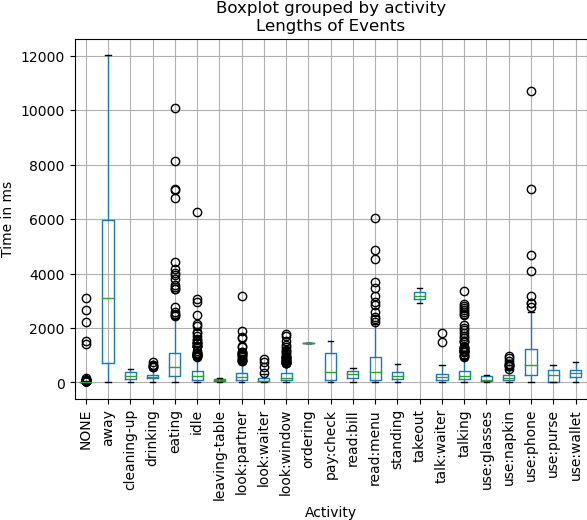
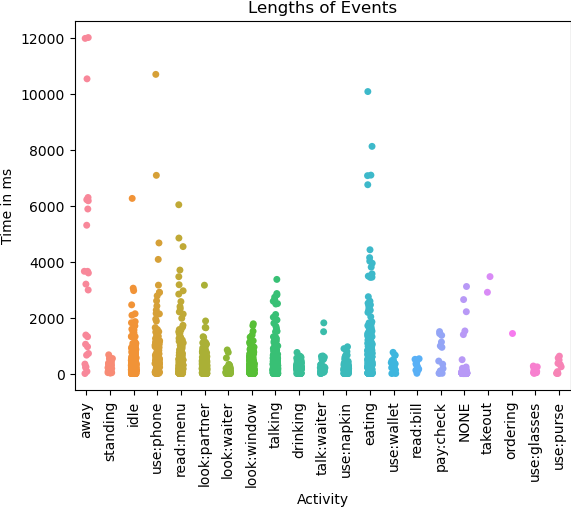
Added stripplot to show all datapoints, in addition to other

Changed region(s): [[0.0, 0.0, 1.0, 0.9763], [0.5061, 0.9763, 0.6252, 1.0]]

diff --git a/src/elan-analysis/ada_spring_2022.py b/src/elan-analysis/ada_spring_2022.py
@@ -63,7 +63,7 @@ activity_shorterdict = {'away-from-table': 'away', 'idle': 'idle', 'eating': 'ea
             'standing':'standing','talking:waiter': 'talk:waiter', 'looking:window': 'look:window', 'looking:waiter': 'look:waiter', 
             'reading:bill':'read:bill', 'reading:menu': 'read:menu',
             'paying:check': 'pay:check', 'using:phone': 'use:phone', 'using:napkin': 'use:napkin', 'using:purse': 'use:purse', 'using:glasses': 'use:glasses',
-            'using:wallet': 'use:wallet', 'looking:PersonA': 'look:partner', 'looking:PersonB':'look:partner', 'takeoutfood':'takeout', 'NONE': 'NONE'}
+            'using:wallet': 'use:wallet', 'looking:PersonA': 'look:partner', 'looking:PersonB':'look:partner', 'takeoutfood':'takeout', 'NONE': 'NONE', 'cleaning-up':'NONE', 'leaving-table':'NONE'}
 
 activitydict_display = ['away', 'idle', 'eating', 'drinking', 'talking', 'ordering', 'standing', 'talk:waiter', 'look:window',
             'look:waiter', 'read:bill', 'read:menu', 'pay:check', 'use:phone', 'use:napkin', 'use:purse', 'use:glasses',
@@ -544,6 +544,18 @@ def clean_df(df):
     df = df.replace({person_a_code: activity_shorterdict})
     df = df.replace({person_b_code: activity_shorterdict})
 
+    unique_states_a = df['person-A'].unique()
+    unique_states_b = df['person-B'].unique()
+
+    for state in unique_states_a:
+        if state not in activitydict_display:
+            print("Extra states in A " + state)
+    
+    for state in unique_states_b:
+        if state not in activitydict_display:
+            print("Extra states in B " + state)
+
+
     return df
 
 if __name__ == "__main__":
@@ -586,12 +598,15 @@ if __name__ == "__main__":
     activity_labels = activitydict_display
     labels = list(activity_labels)
 
+    df_events_ts = copy.copy(df)
+    df_events_ts['ts_subgroup'] = (df_events_ts['table-state'] != df_events_ts['table-state'].shift(1)).cumsum()
+
+
     # make analysis of lengths of different types of events
     # and how those change within different group states
 
     df_events_a = copy.copy(df)
     df_events_b = copy.copy(df)
-    print(df_events_a.columns)
 
     # TODO add cuts for meals
     # https://datascience.stackexchange.com/questions/41428/how-to-find-the-count-of-consecutive-same-string-values-in-a-pandas-dataframe/41431
@@ -631,12 +646,22 @@ if __name__ == "__main__":
     print(df_events.columns)
 
 
-    boxplot = df_events.boxplot(column=['length'], by=['activity'])
+    # https://towardsdatascience.com/violin-strip-swarm-and-raincloud-plots-in-python-as-better-sometimes-alternatives-to-a-boxplot-15019bdff8f8
+    # boxplot = df_events.boxplot(column=['length'], by=['activity']) #, sort=False)
+    boxplot = sns.stripplot(y='length', x='activity', data=df_events) 
     boxplot.set_ylabel("Time in ms")
     boxplot.set_xlabel("Activity")
     boxplot.set_title("Lengths of Events")
     plt.xticks(rotation=90)
     plt.savefig(export_prefix + 'activity_length_histo.png', bbox_inches='tight', pad_inches=0.01)
+    plt.clf()
+
+    boxplot = df_events.boxplot(column=['length'], by=['activity']) #, sort=False)
+    boxplot.set_ylabel("Time in ms")
+    boxplot.set_xlabel("Activity")
+    boxplot.set_title("Lengths of Events")
+    plt.xticks(rotation=90)
+    plt.savefig(export_prefix + 'activity_length_boxplot.png', bbox_inches='tight', pad_inches=0.01)
     plt.clf()
 
 
